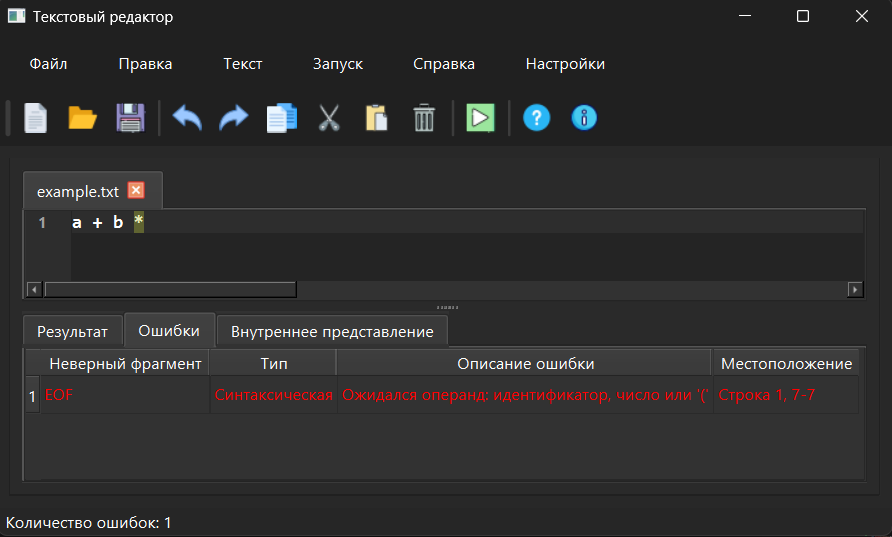
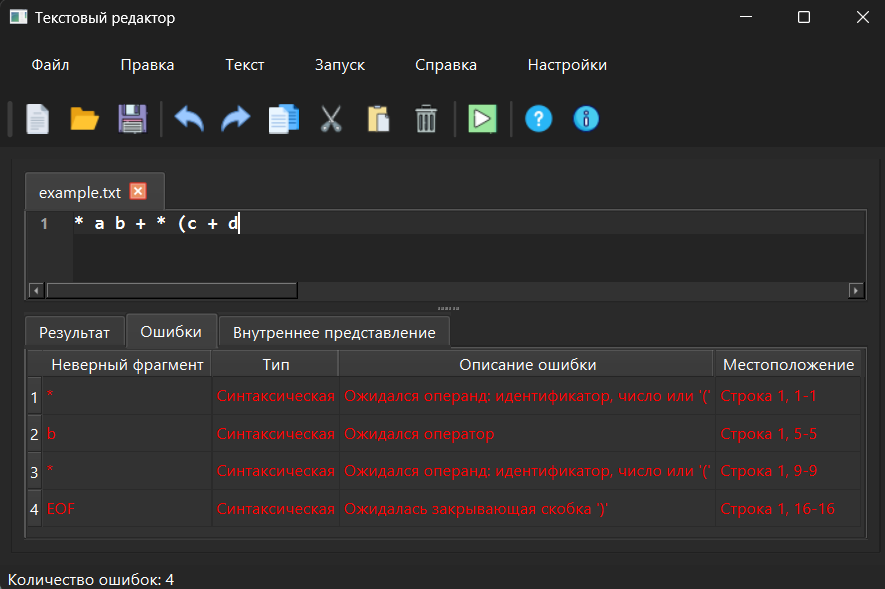
Update images and README

diff --git a/README.md b/README.md
@@ -245,7 +245,7 @@ Lexer diagram:
 
 Recursive descent scheme for a parser:
 
-<img src="https://github.com/MaKiToShI21/Text-Editor/blob/internal-representation-of-the-program/images/lab6/graph.png" width="400">
+<img src="https://github.com/MaKiToShI21/Text-Editor/blob/internal-representation-of-the-program/images/lab6/graph.png" width="200">
 
 Test lexer:
 | Without errors | With errors |
@@ -257,12 +257,12 @@ Test parser:
 | Without errors | With errors |
 |----------------|-------------|
 | <img src="https://github.com/MaKiToShI21/Text-Editor/blob/internal-representation-of-the-program/images/lab6/correct_parser_example_1.png" width="500"> | <img src="https://github.com/MaKiToShI21/Text-Editor/blob/internal-representation-of-the-program/images/lab6/incorrect_parser_example_1.png" width="500"> |
-| <img src="https://github.com/MaKiToShI21/Text-Editor/blob/internal-representation-of-the-program/images/lab6/correct_parser_example_2.png" width="500"> | <img src="https://github.com/MaKiToShI21/Text-Editor/blob/internal-representation-of-the-program/images/lab6/incorrect_parser_example_1.png" width="500"> |
+| <img src="https://github.com/MaKiToShI21/Text-Editor/blob/internal-representation-of-the-program/images/lab6/correct_parser_example_2.png" width="500"> | <img src="https://github.com/MaKiToShI21/Text-Editor/blob/internal-representation-of-the-program/images/lab6/incorrect_parser_example_2.png" width="500"> |
 
 Internal form of program presentation (tetrads and POLIZ):
-| tetrads with poliz | tetrads without poliz |
+| tetrads + poliz + value | tetrads + poliz - value | incorrect line |
 |----------------|-------------|
-| <img src="https://github.com/MaKiToShI21/Text-Editor/blob/internal-representation-of-the-program/images/lab6/with_poliz.png" width="500"> | <img src="https://github.com/MaKiToShI21/Text-Editor/blob/internal-representation-of-the-program/images/lab6/without_poliz.png" width="500">
+| <img src="https://github.com/MaKiToShI21/Text-Editor/blob/internal-representation-of-the-program/images/lab6/with_value.png" width="500"> | <img src="https://github.com/MaKiToShI21/Text-Editor/blob/internal-representation-of-the-program/images/lab6/without_value.png" width="500"> | <img src="https://github.com/MaKiToShI21/Text-Editor/blob/internal-representation-of-the-program/images/lab6/nothing.png" width="500"> | 
 
 <h2 align="center">Build and Launch Instructions</h2>
 
